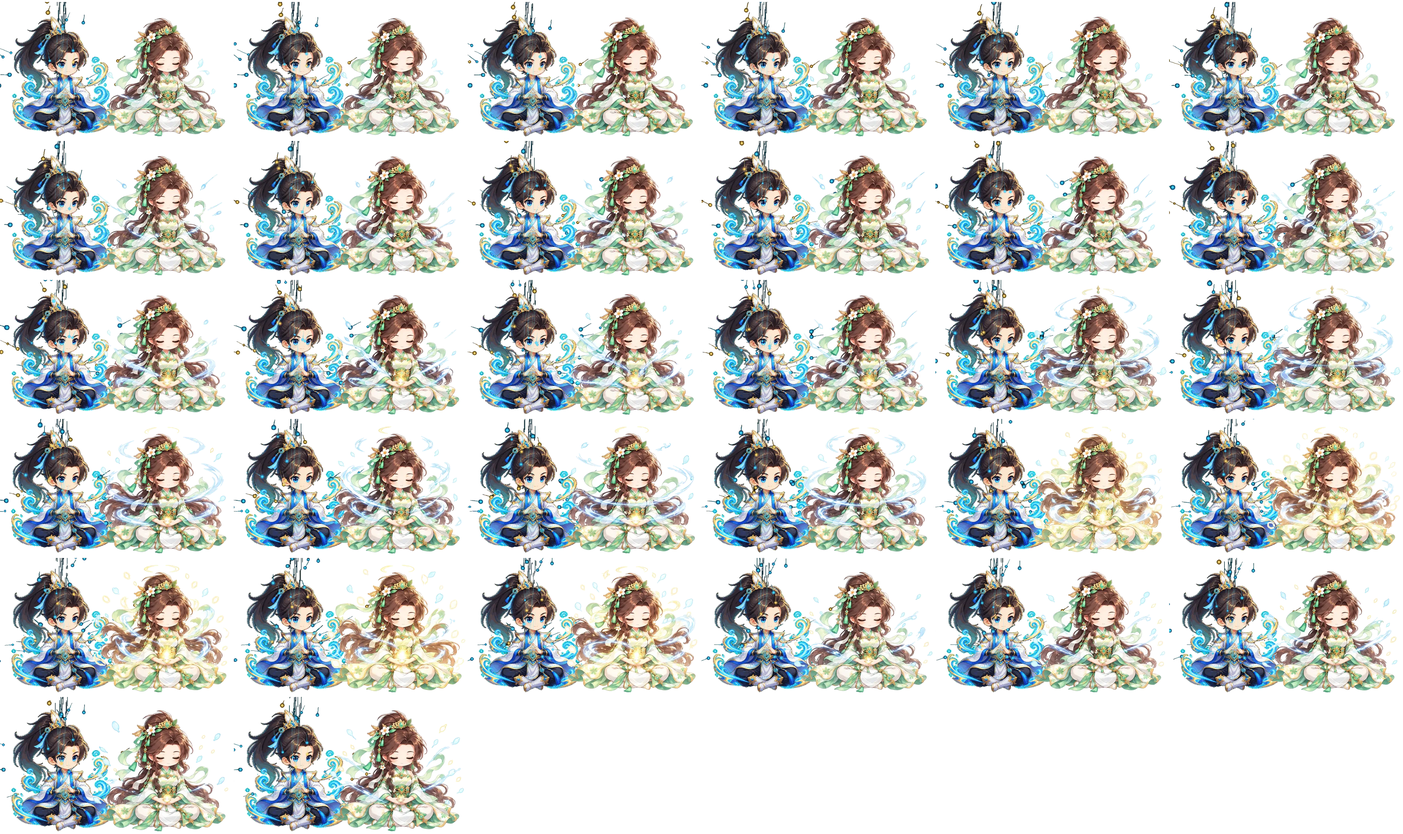
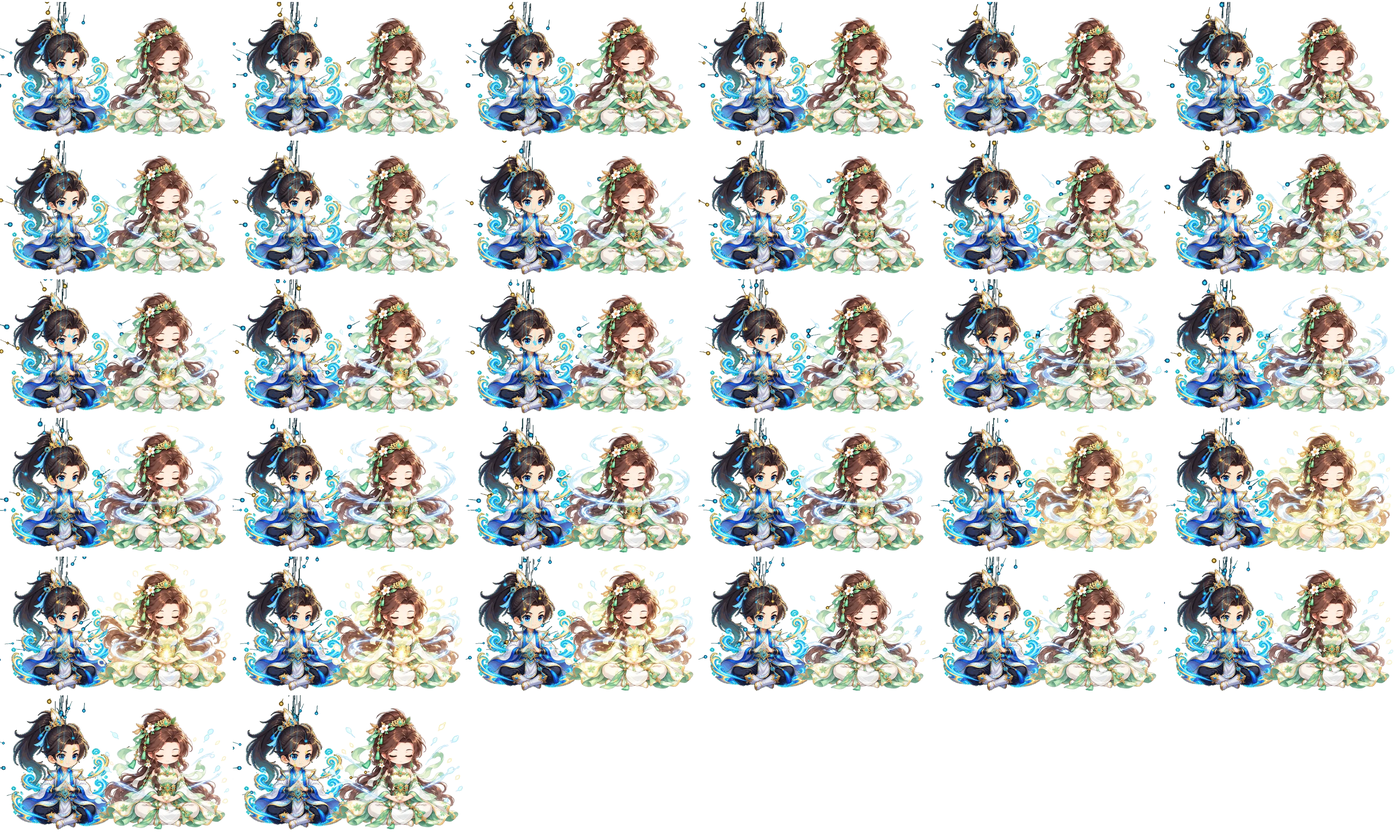
Slow Su Wanqing's dual cultivation to Lin Tingxue's pace

Changed region(s): [[0.0, 0.0, 0.9963, 0.9937], [0.9651, 0.4347, 0.9963, 0.4658]]

diff --git a/src/features/companion/domain/companionSprites.ts b/src/features/companion/domain/companionSprites.ts
@@ -137,11 +137,11 @@ const dualCultivationSprites: Readonly<Record<string, CompanionSprite>> = {
     sheet: "/assets/companions/dual_su_wanqing-sheet.webp",
     poster: "/assets/companions/dual_su_wanqing-poster.webp",
     cols: 6,
-    cellWidth: 715,
-    cellHeight: 425,
+    cellWidth: 712,
+    cellHeight: 424,
     steps: range(32).map(cell => ({ cell, holdMs: 80 })),
     blendMs: 0,
-    peopleX: [27, 69],
+    peopleX: [27, 70],
   },
 };
 
